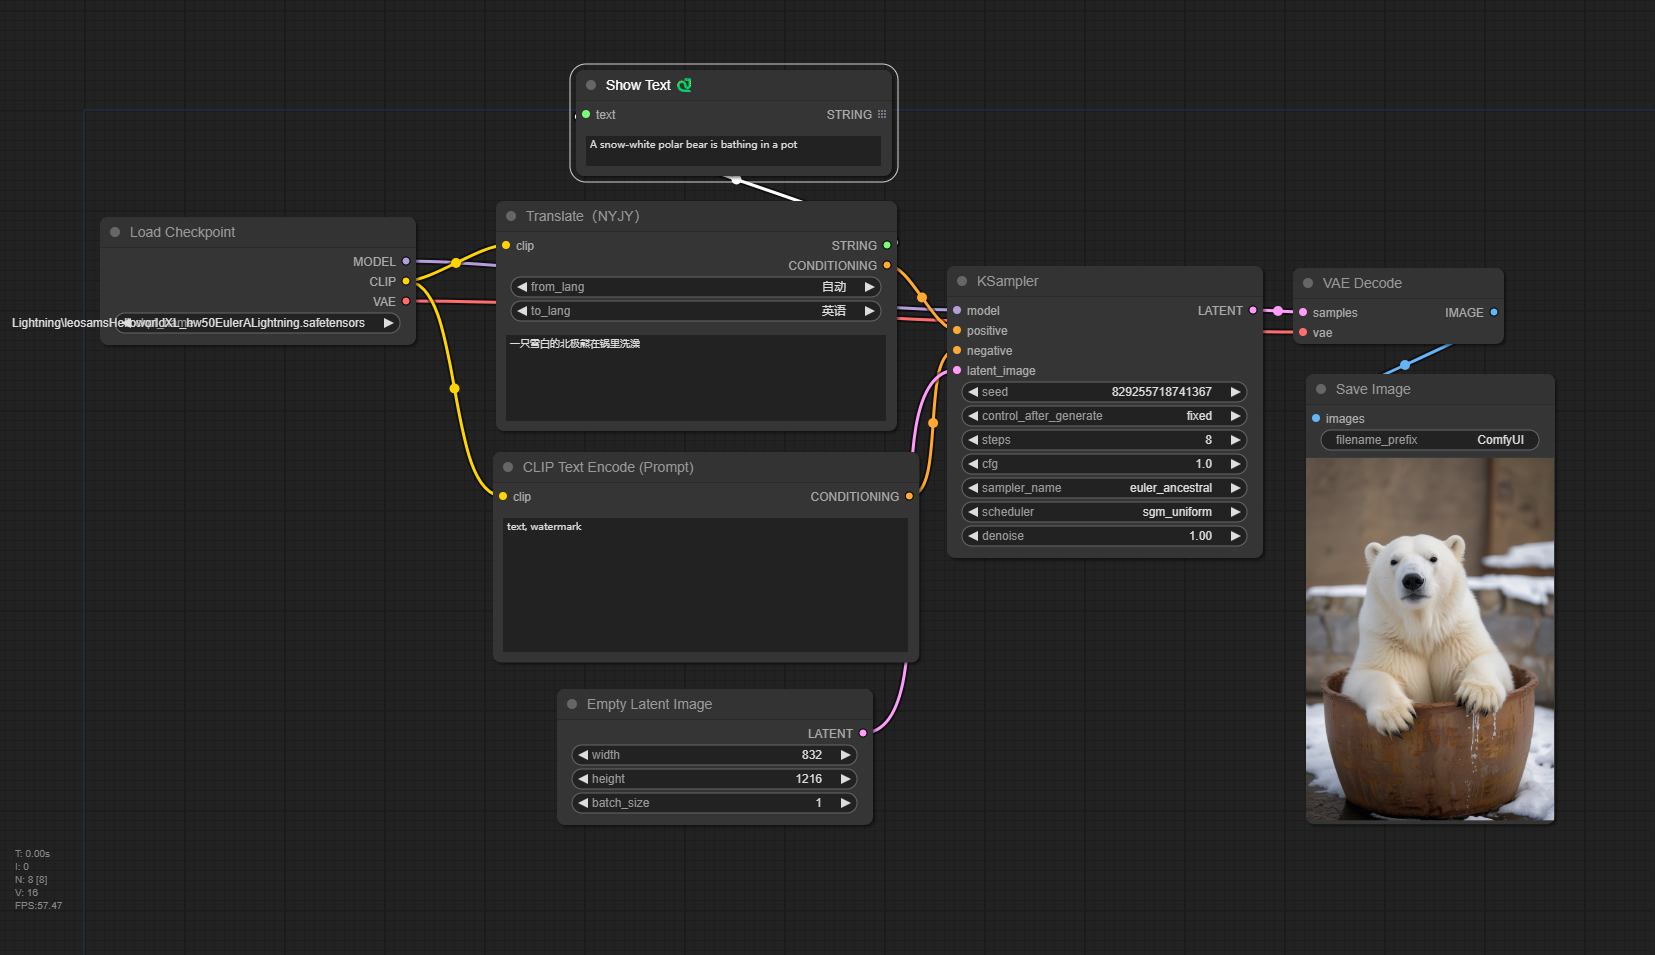
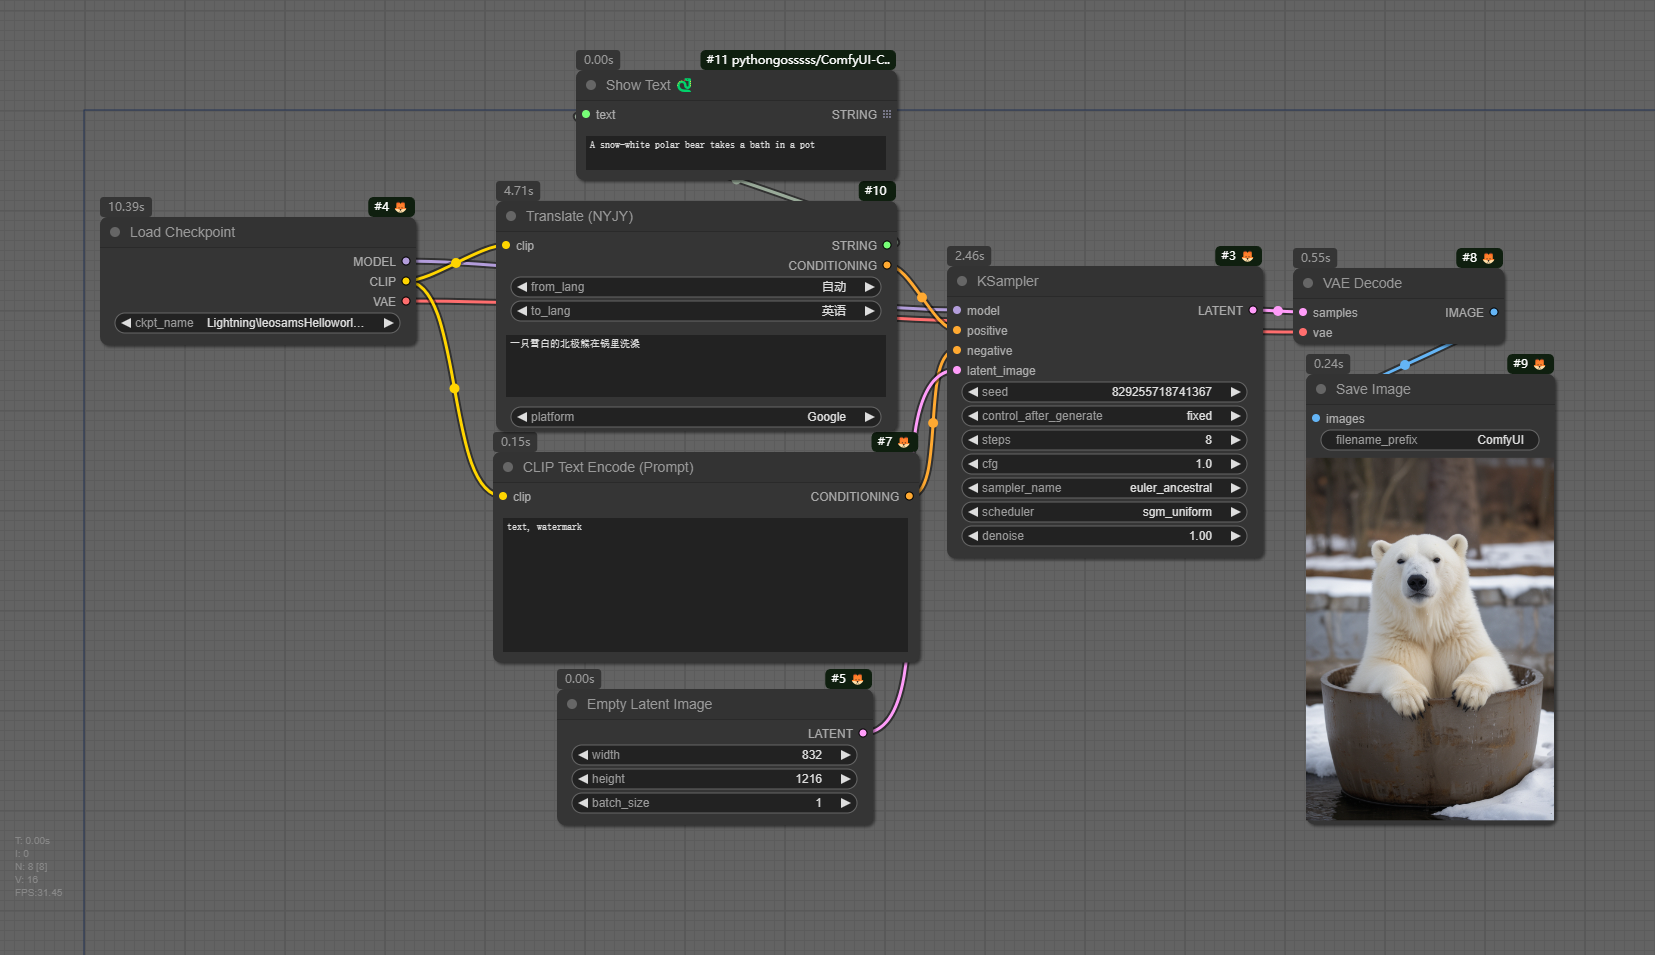
支持google翻译

diff --git a/nodes/Translate.py b/nodes/Translate.py
@@ -4,9 +4,10 @@ import random
 import json
 from hashlib import md5
 from .config import LoadConfig
+from pygtrans import Translate
 
 # 语言列表
-lang_list = {
+baidu_lang_list = {
     "中文": "zh",
     "英语": "en",
     "日语": "jp",
@@ -35,24 +36,55 @@ lang_list = {
     "越南语": "vie",
 }
 
+google_lang_list = {
+    "中文": "zh",
+    "英语": "en",
+    "日语": "ja",
+    "韩语": "ko",
+    "法语": "fr",
+    "西班牙语": "es",
+    "泰语": "th",
+    "阿拉伯语": "ar",
+    "俄语": "ru",
+    "葡萄牙语": "pt",
+    "德语": "de",
+    "意大利语": "it",
+    "希腊语": "el",
+    "荷兰语": "nl",
+    "波兰语": "pl",
+    "保加利亚语": "bg",
+    "爱沙尼亚语": "et",
+    "丹麦语": "da",
+    "芬兰语": "fi",
+    "捷克语": "cs",
+    "罗马尼亚语": "ro",
+    "斯洛文尼亚语": "sl",
+    "瑞典语": "sv",
+    "匈牙利语": "hu",
+    "繁体中文": "zh-TW",
+    "越南语": "vi",
+}
+
 
 class TranslateNode:
     def __init__(self):
         config_data = LoadConfig()
         self.appid = config_data["Baidu"]["AppId"]
         self.appkey = config_data["Baidu"]["Secret"]
+        self.proxy = config_data["Google"]["proxy"] if "Google" in config_data else ""
         pass
 
     @classmethod
     def INPUT_TYPES(self):
         return {
             "required": {
-                "from_lang": (["自动"] + list(lang_list.keys()), {"default": "自动"}),
-                "to_lang": (list(lang_list.keys()), {"default": "英语"}),
-                "text": (
-                    "STRING",
-                    {"default": "", "multiline": True, "dynamicPrompts": True},
+                "from_lang": (
+                    ["自动"] + list(baidu_lang_list.keys()),
+                    {"default": "自动"},
                 ),
+                "to_lang": (list(baidu_lang_list.keys()), {"default": "英语"}),
+                "text": ("STRING", {"default": "", "multiline": True}),
+                "platform": (["Google", "百度"], {"default": "Google"}),
             },
             "optional": {
                 "clip": ("CLIP",),
@@ -67,7 +99,7 @@ class TranslateNode:
     OUTPUT_NODE = False
     CATEGORY = "NYJY/text"
 
-    def run(self, from_lang, to_lang, text, clip=None):
+    def trans_by_baidu(self, from_lang, to_lang, text):
         endpoint = "http://api.fanyi.baidu.com"
         path = "/api/trans/vip/translate"
         url = endpoint + path
@@ -86,8 +118,10 @@ class TranslateNode:
         payload = {
             "appid": self.appid,
             "q": query,
-            "from": lang_list[from_lang] if from_lang in lang_list else "auto",
-            "to": lang_list[to_lang],
+            "from": (
+                baidu_lang_list[from_lang] if from_lang in baidu_lang_list else "auto"
+            ),
+            "to": baidu_lang_list[to_lang],
             "salt": salt,
             "sign": sign,
         }
@@ -103,7 +137,27 @@ class TranslateNode:
         arr_res = []
         for item in result["trans_result"]:
             arr_res.append(item["dst"])
-        translate_str = ("\n").join(arr_res)
+
+        return ("\n").join(arr_res)
+
+    def trans_by_google(self, from_lang, to_lang, text):
+        client = Translate(proxies={"https": self.proxy})
+        if from_lang == "自动":
+            text = client.translate(text, target=google_lang_list[to_lang])
+        else:
+            text = client.translate(
+                text,
+                source=google_lang_list[from_lang],
+                target=google_lang_list[to_lang],
+            )
+
+        return text.translatedText
+
+    def run(self, from_lang, to_lang, text, platform, clip=None):
+        if platform == "Google":
+            translate_str = self.trans_by_google(from_lang, to_lang, text)
+        else:
+            translate_str = self.trans_by_baidu(from_lang, to_lang, text)
 
         if clip is None:
             return (translate_str, [[]])

diff --git a/nodes/config.py b/nodes/config.py
@@ -9,6 +9,7 @@ config_template = {
         "model_download": "https://hf-mirror.com/fancyfeast/joytag/tree/main",
         "hf_project": "fancyfeast/joytag",
     },
+    "Google": {"proxy": "http://localhost:10809"},
 }
 
 current_path = os.path.abspath(os.path.dirname(__file__))

diff --git a/docs/translate.md b/docs/translate.md
@@ -1,4 +1,11 @@
 ## 使用说明
+#### 0 翻译平台说明
+节点提供了两个翻译平台：Google和百度。
+
+如果选择Google翻译，只需要保持梯子通畅即可使用；
+
+如果选择百度翻译，请继续按照以下“修改配置”和“获取百度翻译平台的APPID和秘钥”步骤操作
+
 #### 1 修改配置
 修根目录下config.josn的内容（如果没有config.json，则手动创建一个），路径为：ComfyUI_NYJY
 ```

diff --git a/README.md b/README.md
@@ -1,5 +1,8 @@
 # ComfyUI_NYJY
 ## 更新日志
+#### 2024-09-01
+- 支持Google翻译
+
 #### 2024-08-20
 - 增加JoyCaption节点（joy-caption项目地址：https://huggingface.co/spaces/fancyfeast/joy-caption-pre-alpha ）
 
